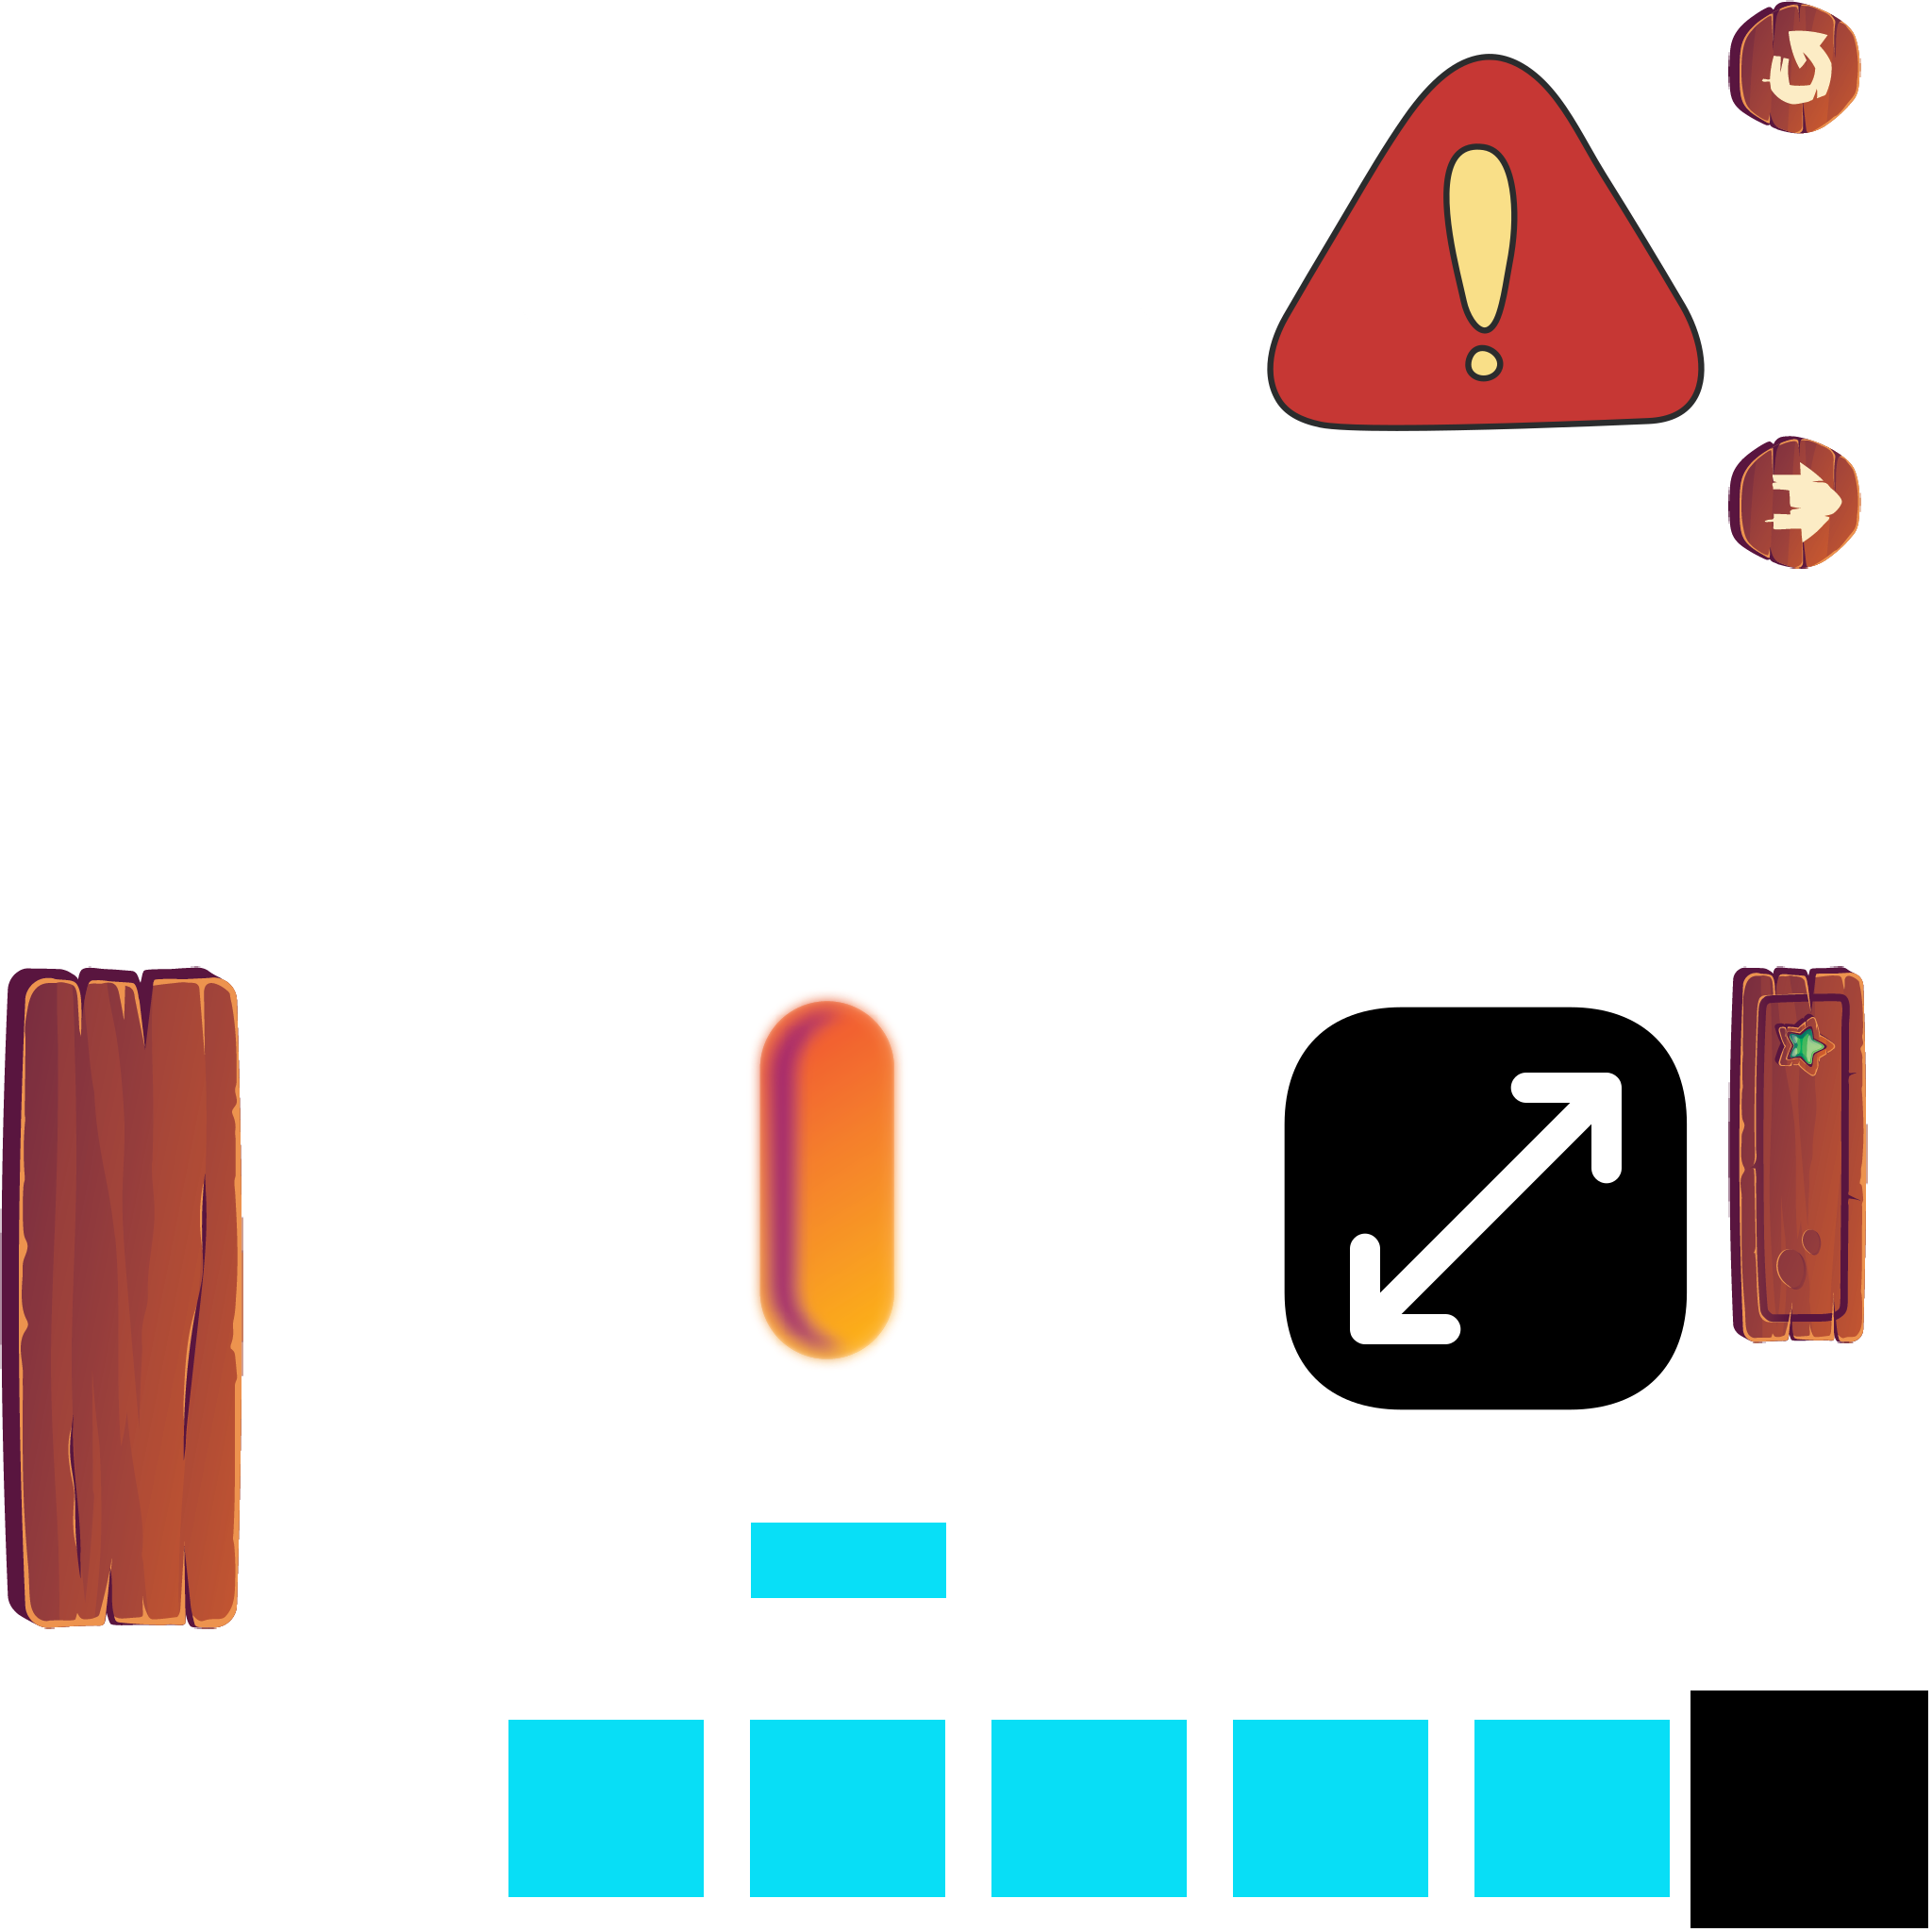
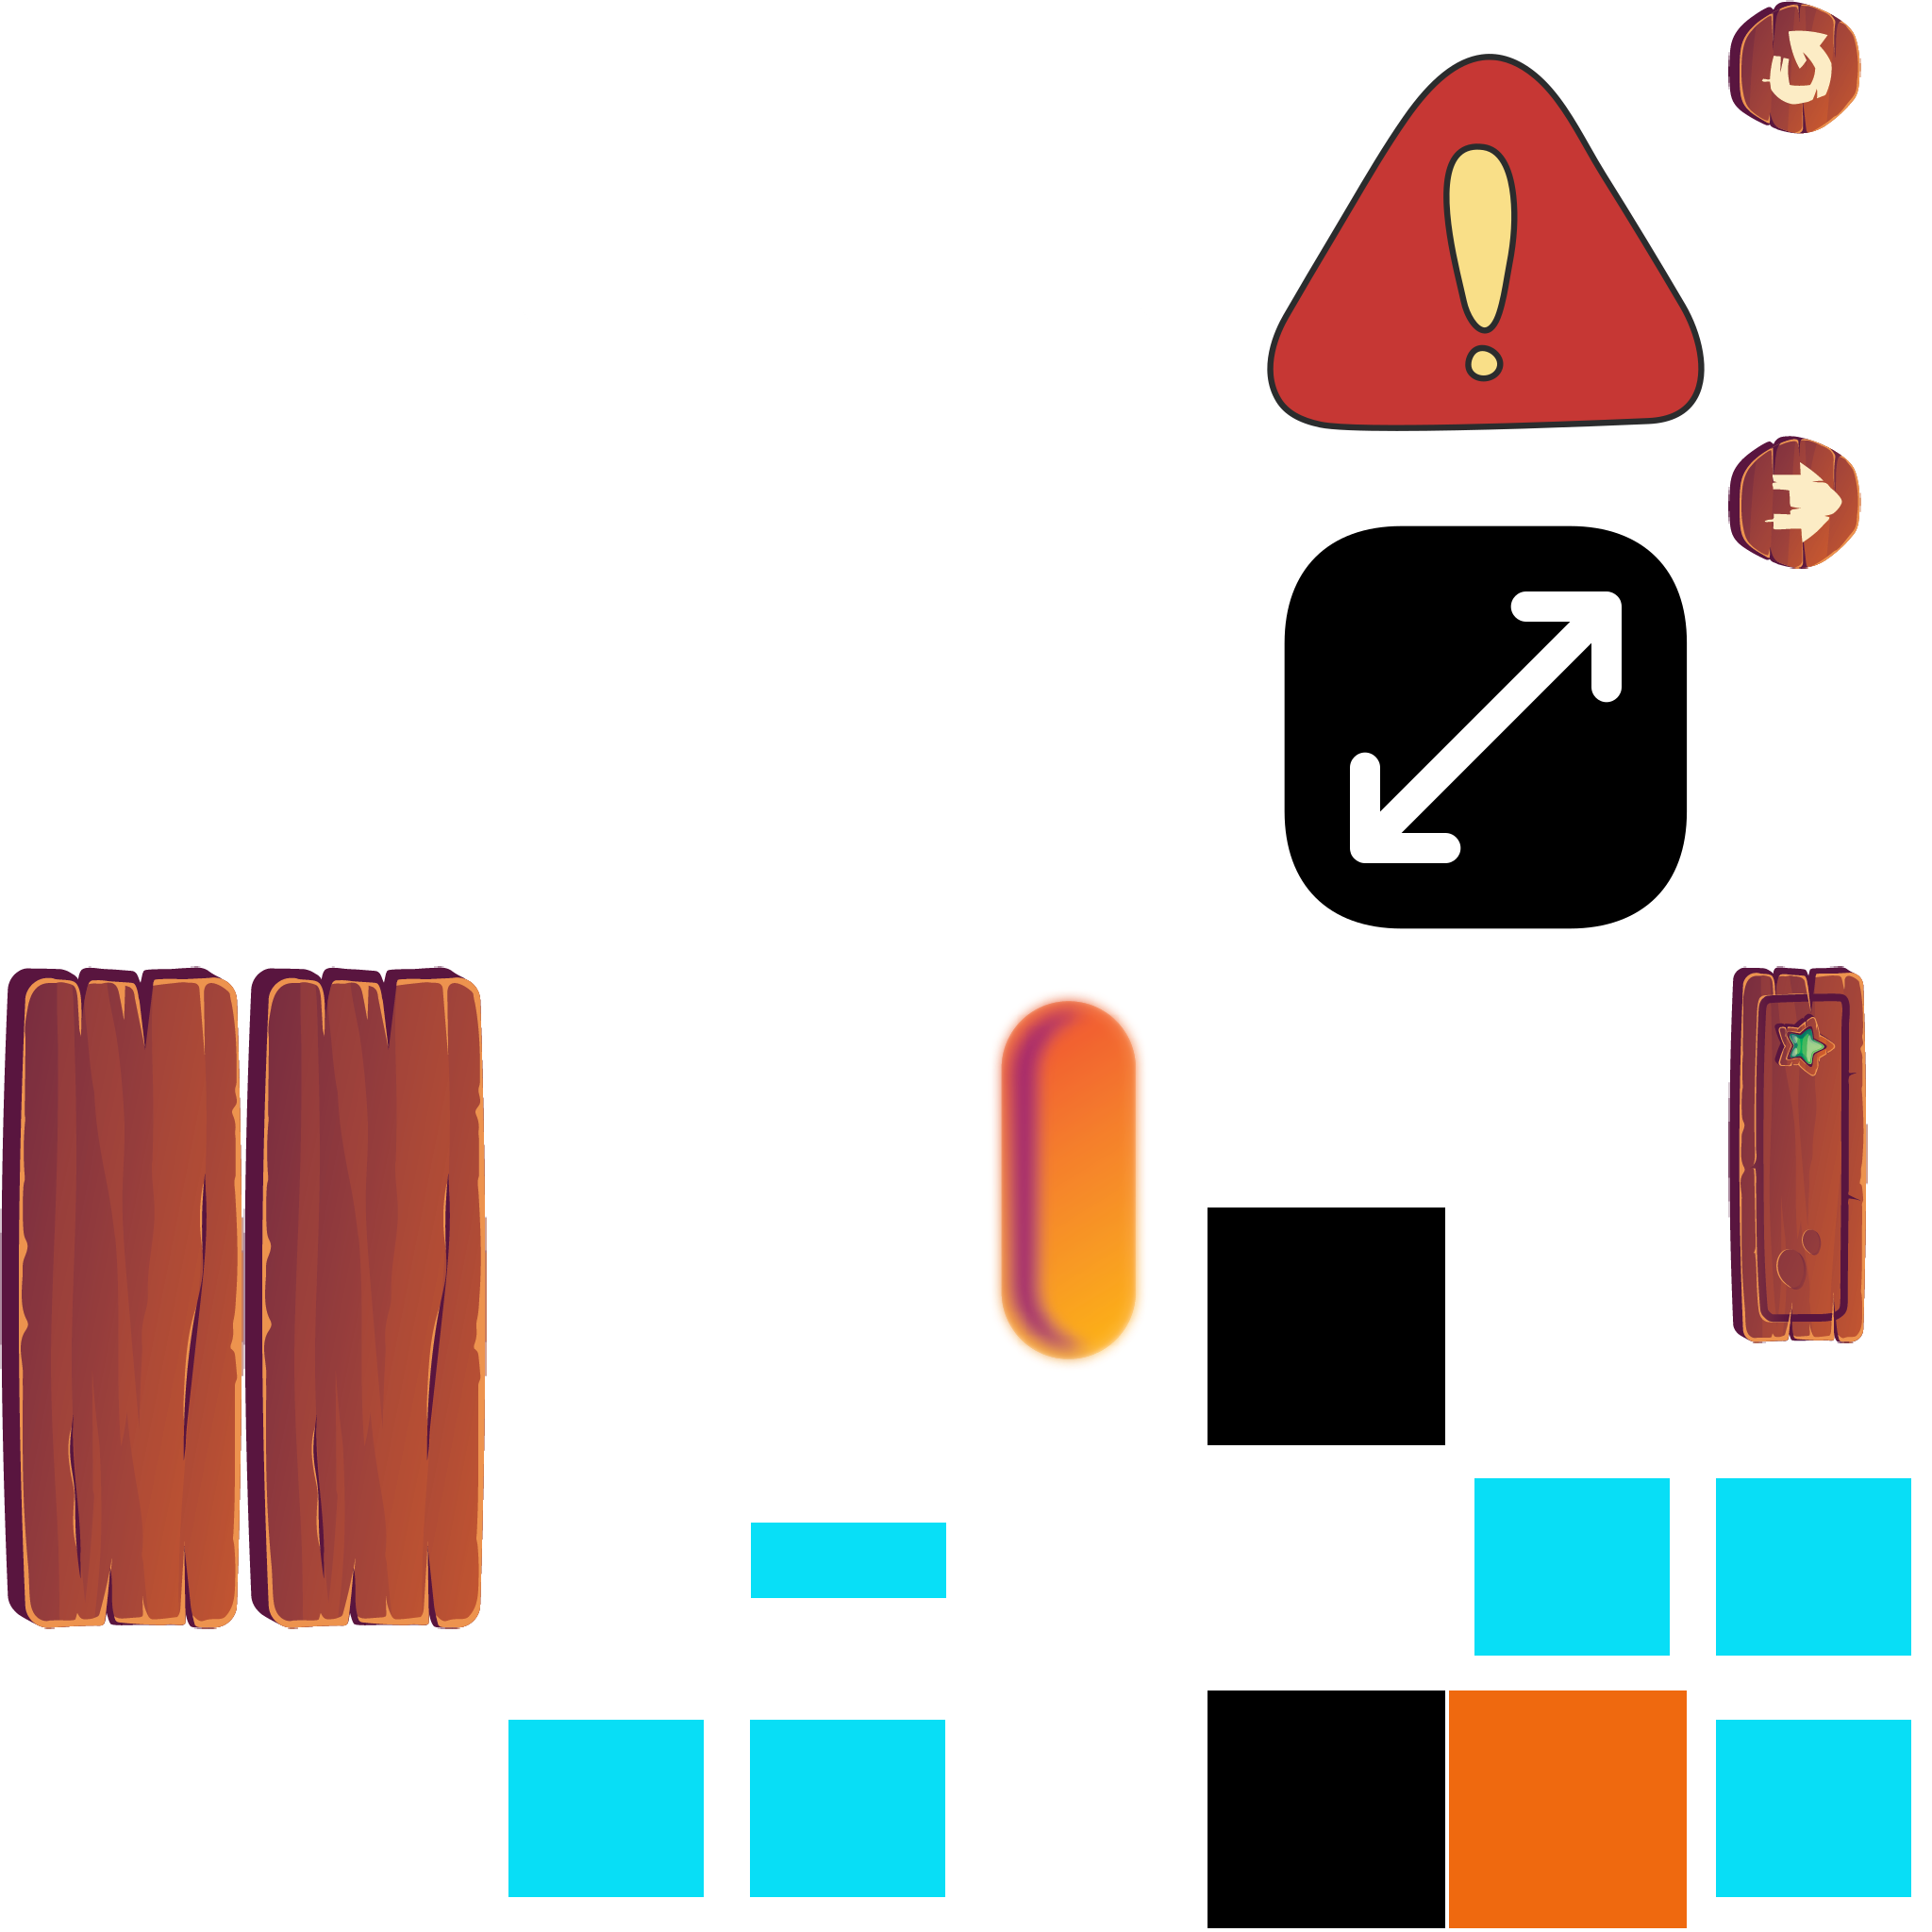
10.06.2006
DEĞİŞİMİ

diff --git a/scripts/objRefTable.js b/scripts/objRefTable.js
@@ -15,23 +15,27 @@ self.C3_GetObjectRefTable = function () {
 		C3.Plugins.System.Acts.SetVar,
 		C3.Plugins.System.Acts.SetBoolVar,
 		C3.Plugins.Touch.Cnds.OnDoubleTapGestureObject,
-		C3.Plugins.System.Cnds.PickNth,
-		C3.Plugins.Sprite.Acts.SetBoolInstanceVar,
+		C3.Plugins.System.Acts.AddVar,
 		C3.Plugins.System.Acts.CreateObject,
 		C3.Plugins.Touch.Exps.X,
 		C3.Plugins.Touch.Exps.Y,
 		C3.Plugins.Audio.Acts.Play,
+		C3.Plugins.System.Cnds.PickNth,
+		C3.Plugins.Sprite.Acts.SetBoolInstanceVar,
 		C3.Plugins.Particles.Acts.SetPosToObject,
 		C3.Plugins.Particles.Acts.SetSpeedRandomiser,
 		C3.Plugins.Particles.Acts.SetEffect,
 		C3.Plugins.Particles.Acts.SetGrowRate,
-		C3.Plugins.System.Acts.AddVar,
 		C3.Plugins.Text.Acts.SetFontSize,
 		C3.Plugins.Text.Acts.SetText,
 		C3.Plugins.Text.Acts.SetFontColor,
+		C3.Plugins.Text.Acts.SetFontFace,
 		C3.Plugins.System.Cnds.Every,
+		C3.Plugins.System.Acts.SubVar,
+		C3.Plugins.System.Cnds.CompareVar,
 		C3.Plugins.System.Acts.GoToLayout,
 		C3.Plugins.Touch.Cnds.IsTouchingObject,
+		C3.Plugins.System.Acts.ResetGlobals,
 		C3.Plugins.System.Acts.GoToLayoutByName,
 		C3.Plugins.System.Cnds.OnLayoutStart,
 		C3.Plugins.Sprite.Acts.SetVisible,
@@ -80,29 +84,22 @@ self.C3_JsPropNameTable = [
 	{GölgeIşığı: 0},
 	{isilti: 0},
 	{Partiküller: 0},
+	{geriTarget: 0},
+	{Sprite20: 0},
+	{sure: 0},
+	{Sprite21: 0},
+	{Sprite22: 0},
+	{sesackapa: 0},
+	{Sprite23: 0},
+	{Altın: 0},
+	{Sprite24: 0},
+	{Sprite25: 0},
 	{IsDragging: 0},
 	{DeltaX: 0},
 	{DeltaY: 0},
-	{TouchLastX: 0},
-	{TouchLastY: 0},
 	{Puan: 0},
 	{Score: 0},
-	{IsDragging2: 0},
-	{DeltaX2: 0},
-	{DeltaY2: 0},
-	{Marked2: 0},
-	{TouchLastX2: 0},
-	{TouchLastY2: 0},
-	{Puan2: 0},
-	{Score2: 0},
-	{IsDragging3: 0},
-	{DeltaX3: 0},
-	{DeltaY3: 0},
-	{Marked3: 0},
-	{TouchLastX3: 0},
-	{TouchLastY3: 0},
-	{Puan3: 0},
-	{Score3: 0}
+	{Süre: 0}
 ];
 
 self.InstanceType = {
@@ -144,5 +141,15 @@ self.InstanceType = {
 	efekt: class extends self.ISpriteInstance {},
 	GölgeIşığı: class extends self.IShadowLightInstance {},
 	isilti: class extends self.ISpriteInstance {},
-	Partiküller: class extends self.IParticlesInstance {}
+	Partiküller: class extends self.IParticlesInstance {},
+	geriTarget: class extends self.ISpriteInstance {},
+	Sprite20: class extends self.ISpriteInstance {},
+	sure: class extends self.ITextInstance {},
+	Sprite21: class extends self.ISpriteInstance {},
+	Sprite22: class extends self.ISpriteInstance {},
+	sesackapa: class extends self.ISpriteInstance {},
+	Sprite23: class extends self.ISpriteInstance {},
+	Altın: class extends self.ISpriteInstance {},
+	Sprite24: class extends self.ISpriteInstance {},
+	Sprite25: class extends self.ISpriteInstance {}
 }